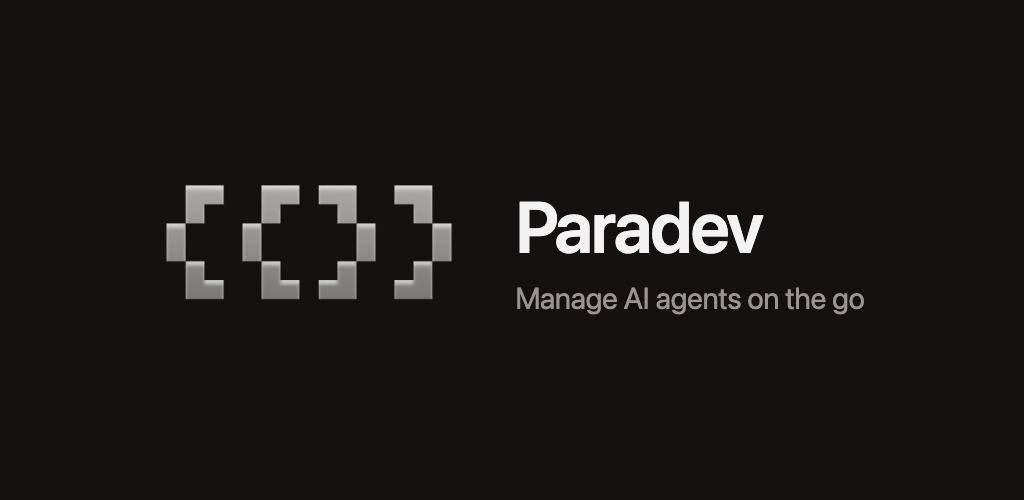
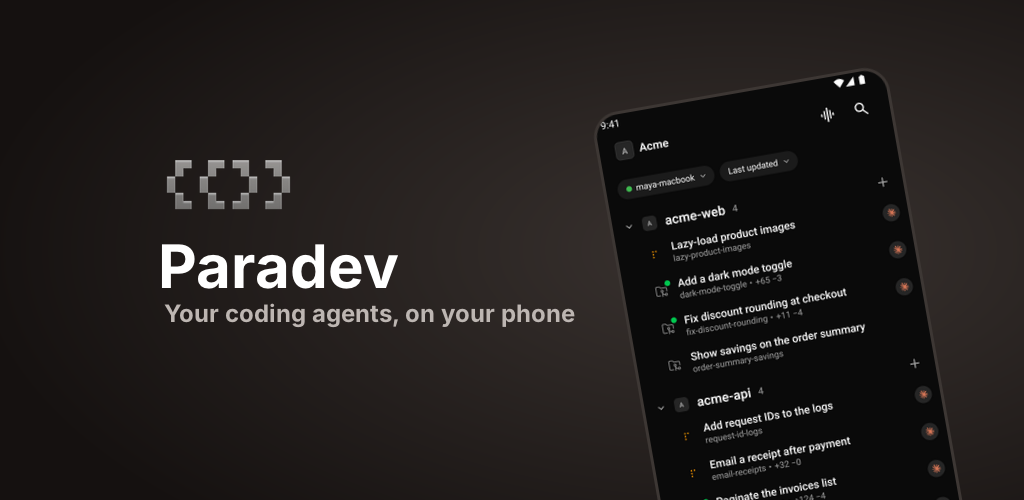
feat(mobile): new store screenshots, feature graphic and description
Six framed phone screenshots and a feature graphic, captured from the
current main build on an Android emulator against a local stack with an
"Acme" demo org and real Claude sessions. scripts/store-assets.ts frames
the raw captures in store/captures/android, so the set can be rebuilt.

The description now uses one brand (Paradev, formerly Superset once),
backs the "100+ Coding Agents" title, and reads on a phone: a short
intro, six headed sections, and one bullet list that does not repeat
them. The Play short description follows the same pitch.

sharp is a devDependency of apps/mobile for the script; the iOS native
fingerprint is unchanged (c7af979f).

diff --git a/apps/mobile/scripts/store-assets.ts b/apps/mobile/scripts/store-assets.ts
@@ -1,0 +1,253 @@
+// Builds the Google Play phone screenshots and feature graphic from raw
+// emulator captures in store/captures/android.
+//
+//   bun apps/mobile/scripts/store-assets.ts
+//
+// Capture each screen at 1080x2400 with `adb exec-out screencap -p` (the
+// mobile-android-verification skill has the setup), then run this script.
+import { mkdirSync, readdirSync, rmSync } from "node:fs";
+import { join, resolve } from "node:path";
+import sharp from "sharp";
+
+const MOBILE_DIR = resolve(__dirname, "..");
+const ROOT_DIR = resolve(MOBILE_DIR, "../..");
+const CAPTURES_DIR = join(MOBILE_DIR, "store/captures/android");
+const ANDROID_DIR = join(MOBILE_DIR, "store/android");
+const PHONE_DIR = join(ANDROID_DIR, "phone");
+const FONT_FILE = join(ROOT_DIR, "apps/marketing/public/fonts/Inter-Bold.ttf");
+const MARK_FILE = join(MOBILE_DIR, "assets/splash-mark.png");
+
+// The icon's own background, so the brand mark sits on it without a seam.
+const BACKDROP = { r: 21, g: 17, b: 16 };
+const BACKDROP_HEX = "#151110";
+const GLOW_HEX = "#3a3330";
+const FRAME_HEX = "#3d3734";
+
+const SHOTS = [
+	{ capture: "home.png", headline: "Every agent, live" },
+	{ capture: "chat.png", headline: "Talk to your agent" },
+	{ capture: "diff.png", headline: "Review the diff" },
+	{ capture: "line-comment.png", headline: "Comment on any line" },
+	{ capture: "pull-request.png", headline: "Every check, green" },
+	{ capture: "terminal.png", headline: "The real terminal" },
+];
+
+const PHONE = {
+	width: 1080,
+	height: 1920,
+	headlineSize: 84,
+	headlineTop: 150,
+	screenTop: 380,
+	screenWidth: 900,
+	radius: 56,
+	border: 4,
+};
+
+const FEATURE = {
+	width: 1024,
+	height: 500,
+	tagline: "Your coding agents, on your phone",
+};
+
+function escapeMarkup(value: string): string {
+	return value
+		.replaceAll("&", "&amp;")
+		.replaceAll("<", "&lt;")
+		.replaceAll(">", "&gt;");
+}
+
+async function text(
+	value: string,
+	size: number,
+	color: string,
+	width?: number,
+	align: "left" | "centre" = "centre",
+): Promise<{ input: Buffer; width: number; height: number }> {
+	const { data, info } = await sharp({
+		text: {
+			text: `<span foreground="${color}">${escapeMarkup(value)}</span>`,
+			font: `Inter Bold ${size}px`,
+			fontfile: FONT_FILE,
+			width,
+			align,
+			rgba: true,
+		},
+	})
+		.png()
+		.toBuffer({ resolveWithObject: true });
+	return { input: data, width: info.width, height: info.height };
+}
+
+function glow(width: number, height: number, cx: number, cy: number): Buffer {
+	return Buffer.from(
+		`<svg xmlns="http://www.w3.org/2000/svg" width="${width}" height="${height}">
+			<defs><radialGradient id="g" cx="${cx}" cy="${cy}" r="0.75">
+				<stop offset="0" stop-color="${GLOW_HEX}"/>
+				<stop offset="1" stop-color="${BACKDROP_HEX}"/>
+			</radialGradient></defs>
+			<rect width="100%" height="100%" fill="url(#g)"/>
+		</svg>`,
+	);
+}
+
+/** Rounds the top corners only: the screen runs off the bottom edge. */
+function topRounded(
+	width: number,
+	height: number,
+	radius: number,
+	fill: string,
+): Buffer {
+	return Buffer.from(
+		`<svg xmlns="http://www.w3.org/2000/svg" width="${width}" height="${height}">
+			<rect width="${width}" height="${height + radius}" rx="${radius}" ry="${radius}" fill="${fill}"/>
+		</svg>`,
+	);
+}
+
+/** The capture scaled to `width`, cut to `height`, with rounded corners and a thin frame. */
+async function framedScreen(
+	capture: string,
+	width: number,
+	height: number,
+	radius: number,
+	border: number,
+): Promise<Buffer> {
+	const inner = width - border * 2;
+	const scaled = await sharp(join(CAPTURES_DIR, capture))
+		.resize({ width: inner })
+		.toBuffer();
+	const innerHeight = Math.min(
+		height - border,
+		(await sharp(scaled).metadata()).height ?? 0,
+	);
+	const screen = await sharp(scaled)
+		.extract({ left: 0, top: 0, width: inner, height: innerHeight })
+		.composite([
+			{
+				input: topRounded(inner, innerHeight, radius - border, "#fff"),
+				blend: "dest-in",
+			},
+		])
+		.png()
+		.toBuffer();
+	return sharp({
+		create: {
+			width,
+			height: innerHeight + border,
+			channels: 4,
+			background: { r: 0, g: 0, b: 0, alpha: 0 },
+		},
+	})
+		.composite([
+			{
+				input: topRounded(width, innerHeight + border, radius, FRAME_HEX),
+				top: 0,
+				left: 0,
+			},
+			{ input: screen, top: border, left: border },
+		])
+		.png()
+		.toBuffer();
+}
+
+async function phoneScreenshot(
+	shot: (typeof SHOTS)[number],
+	file: string,
+): Promise<void> {
+	const headline = await text(
+		shot.headline,
+		PHONE.headlineSize,
+		"#ffffff",
+		PHONE.width - 120,
+	);
+	const screen = await framedScreen(
+		shot.capture,
+		PHONE.screenWidth,
+		PHONE.height - PHONE.screenTop,
+		PHONE.radius,
+		PHONE.border,
+	);
+	await sharp(glow(PHONE.width, PHONE.height, 0.5, 0.55))
+		.composite([
+			{
+				input: headline.input,
+				top: PHONE.headlineTop,
+				left: Math.round((PHONE.width - headline.width) / 2),
+			},
+			{
+				input: screen,
+				top: PHONE.screenTop,
+				left: Math.round((PHONE.width - PHONE.screenWidth) / 2),
+			},
+		])
+		.flatten({ background: BACKDROP })
+		.png()
+		.toFile(file);
+}
+
+async function brandMark(height: number): Promise<Buffer> {
+	return sharp(MARK_FILE)
+		.resize({ height })
+		.modulate({ brightness: 0.82 })
+		.toBuffer();
+}
+
+async function featureGraphic(file: string): Promise<void> {
+	const { width, height } = FEATURE;
+	const mark = await brandMark(56);
+	const name = await text("Paradev", 60, "#ffffff");
+	const tagline = await text(FEATURE.tagline, 24, "#bdb6b2", 420, "left");
+
+	const phoneWidth = 300;
+	const screen = await framedScreen(
+		"home.png",
+		phoneWidth,
+		Math.round((phoneWidth * 2400) / 1080),
+		26,
+		3,
+	);
+	const tilted = await sharp(screen)
+		.rotate(-10, { background: { r: 0, g: 0, b: 0, alpha: 0 } })
+		.toBuffer();
+	const tiltedMeta = await sharp(tilted).metadata();
+	const phoneLeft = 590;
+	const phoneTop = 64;
+	const visible = await sharp(tilted)
+		.extract({
+			left: 0,
+			top: 0,
+			width: Math.min(tiltedMeta.width ?? 0, width - phoneLeft),
+			height: Math.min(tiltedMeta.height ?? 0, height - phoneTop),
+		})
+		.toBuffer();
+
+	const left = 164;
+	const top = 160;
+	await sharp(glow(width, height, 0.72, 0.5))
+		.composite([
+			{ input: visible, top: phoneTop, left: phoneLeft },
+			{ input: mark, top, left },
+			{ input: name.input, top: top + 84, left: left - 3 },
+			{
+				input: tagline.input,
+				top: top + 84 + name.height + 14,
+				left,
+			},
+		])
+		.flatten({ background: BACKDROP })
+		.png()
+		.toFile(file);
+}
+
+async function main(): Promise<void> {
+	rmSync(PHONE_DIR, { recursive: true, force: true });
+	mkdirSync(PHONE_DIR, { recursive: true });
+	for (const [index, shot] of SHOTS.entries()) {
+		const name = `${String(index + 1).padStart(2, "0")}-${shot.capture}`;
+		await phoneScreenshot(shot, join(PHONE_DIR, name));
+	}
+	await featureGraphic(join(ANDROID_DIR, "feature-graphic.png"));
+	console.log(readdirSync(PHONE_DIR).join("\n"));
+}
+
+await main();

diff --git a/apps/mobile/store.config.js b/apps/mobile/store.config.js
@@ -56,8 +56,36 @@ module.exports = {
 				subtitle: "Manage AI agents on the go",
 				promoText:
 					"Your agents keep working when you leave your desk. Start a task, follow it live, and review the diff from your phone.",
-				description:
-					"Meet Paradev (formerly Superset), the phone app for the coding agents running on your computer. Start a task, watch the agent work, answer its questions, and review the diff before anything merges, without opening your laptop.\n\nAI CODING AGENTS ON YOUR PHONE\nStart work the moment an idea lands. Pick a project and branch, choose an agent and model, and send the task. Every session runs in its own isolated workspace, so nothing touches your main branch until you decide it should.\n\nFOLLOW EVERY SESSION LIVE\nSee what your agents are doing as they do it. Read their output, watch the commands they run, and know at a glance which sessions are working, which need your permission, and which are finished and waiting for you. Open the terminal when you want the raw output.\n\nCODE REVIEW ON THE GO\nRead every change file by file with syntax highlighting. Comment on specific lines, then send your review back to the agent in one step so it can make the fixes. Open the pull request, check its status, and merge it from your phone.\n\nNO TYPING NEEDED\nDictate instructions when typing on a phone is a chore. Snap a whiteboard sketch or attach a screenshot of a bug, and the agent gets it with your message.\n\nWORKS WITH THE AGENTS YOU ALREADY USE\nClaude Code, Codex, Gemini CLI, Cursor Agent, GitHub Copilot, OpenCode, Amp, and more terminal agents. Paradev is not affiliated with their makers.\n\nYOUR CODE STAYS ON YOUR MACHINE\nYour agents, shells, and code run on your own computer. The phone shows what they are doing and sends your input back. Nothing is downloaded or run on your device.\n\nSuperset helps you:\n▶ Start agent tasks on your own computer from anywhere\n▶ See which sessions need you and which are done\n▶ Review diffs and leave line-by-line comments\n▶ Send review feedback straight back to the agent\n▶ Merge pull requests without opening your laptop\n▶ Dictate instructions and attach photos and screenshots\n▶ Keep up with your team's workspaces across projects\n\nGET STARTED\nSuperset Mobile pairs with the Paradev desktop app. Install it on your computer from superset.sh, sign in with the same account on your phone, and your machines appear with their workspaces and sessions. Paradev Mobile is included with Paradev Pro for organizations.",
+				description: [
+					"Paradev (formerly Superset) runs many coding agents in parallel, each in its own workspace on your computer or in the cloud. This app keeps every one of them within reach, so you can start tasks, follow every session, and review and merge the work from your phone.",
+					"",
+					"RUN MANY AGENTS AT ONCE",
+					"Give every task its own agent, branch, and workspace, so agents work side by side without touching your main branch. Start a new one here: pick a project, an agent, and a model, and send the task.",
+					"",
+					"FOLLOW EVERY SESSION LIVE",
+					"Watch each agent's messages and commands as they happen. See at a glance which sessions are working, which need your approval, and which are done.",
+					"",
+					"TALK TO YOUR AGENTS",
+					"Answer a question or send the next instruction while the agent works. Dictate when typing is a chore, attach a photo or a screenshot, or switch to voice mode and talk it through.",
+					"",
+					"REVIEW AND MERGE",
+					"Read every changed file with syntax highlighting, comment on any line, and send your review to the agent in one step. When the pull request's checks are green, merge it from your phone.",
+					"",
+					"THE REAL TERMINAL",
+					"Open a session's terminal to read the raw output or type a command. It runs on your computer or cloud workspace; nothing runs on your phone.",
+					"",
+					"GET STARTED",
+					"Install Paradev on your computer from paradev.com and sign in here with the same account. Your machines and cloud workspaces appear with their sessions. Paradev Mobile is included with Paradev Pro for organizations.",
+					"",
+					"ALSO IN THE APP",
+					"• Works with Claude Code, Codex, Gemini CLI, Cursor Agent, GitHub Copilot, OpenCode, Amp, and more",
+					"• Search and filter sessions by status, project, or teammate",
+					"• Share a workspace with a teammate",
+					"• Read and comment on the pages your agents publish",
+					"• Available in 18 languages",
+					"",
+					"Paradev is not affiliated with the makers of the agents named above.",
+				].join("\n"),
 				keywords: [
 					"code review",
 					"pull request",

diff --git a/apps/mobile/play-store.config.js b/apps/mobile/play-store.config.js
@@ -7,7 +7,7 @@ const apple = require("./store.config.js").apple;
 const appStore = apple.info["en-US"];
 
 const shortDescription =
-	"Start, follow and review your coding agents from your phone.";
+	"Run many coding agents in parallel. Follow, review and merge from your phone.";
 
 // The App Store review notes argue against Apple's guidelines; Play reviewers
 // need only the access steps.

diff --git a/apps/mobile/plans/20261029-android-launch-checklist.md b/apps/mobile/plans/20261029-android-launch-checklist.md
@@ -75,11 +75,10 @@ The listing lives in `apps/mobile/play-store.config.js`. Its text comes from the
 `store.config.js`, and the icon and feature graphic are in `apps/mobile/store/android/`.
 `bun apps/mobile/scripts/play-listing.ts` checks it against Play's limits.
 
-- [x] **Phone screenshots** — 3 drafts taken 2026-10-29 from the review account on production
-      (Home, workspace sheet, new task). Retake the new-task shot once the Android composer's project
-      chip stops overlapping the list header. Was: (2 to 8 PNGs) in `apps/mobile/store/android/phone/`. Take them from the
-      review demo account (`APP_REVIEW_EMAIL`), whose organization has sample sessions, never from
-      a real account. Use `apps/mobile/scripts/android-dev.sh --shot`.
+- [x] **Phone screenshots and feature graphic**: six framed shots (2026-11-15) from a local Android
+      emulator with an "Acme" demo org and real agent sessions. Raw captures are in
+      `apps/mobile/store/captures/android/`; `bun apps/mobile/scripts/store-assets.ts` frames them into
+      `apps/mobile/store/android/phone/` and draws `feature-graphic.png`. Never capture a real account.
 - [ ] **Push text and images**:
       `PLAY_SERVICE_ACCOUNT_KEY=key.json bun apps/mobile/scripts/play-listing.ts --push`. Needs
       the service account above. The push code has not run against Play yet.
